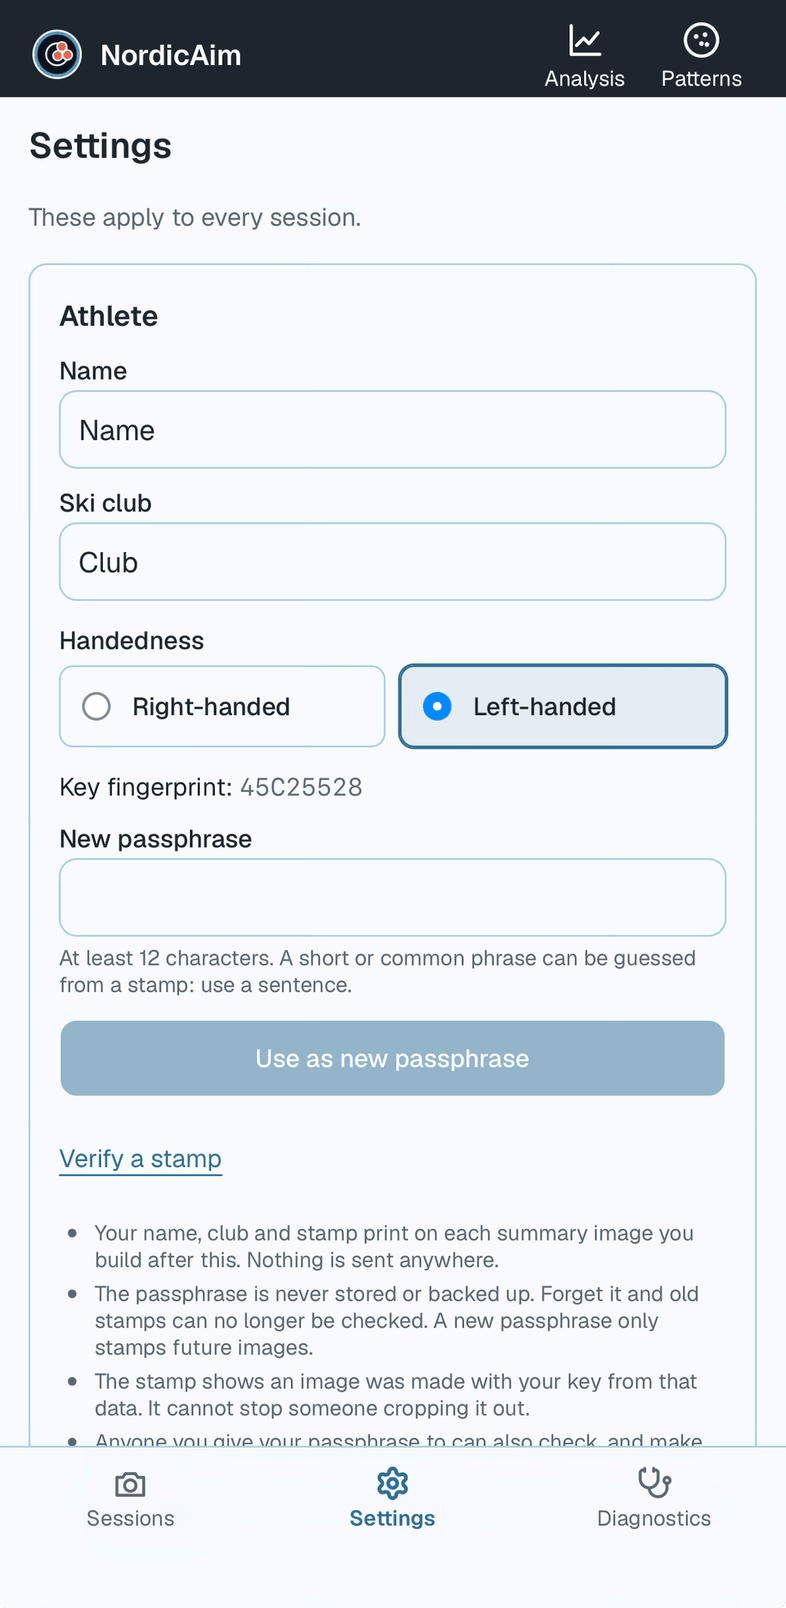
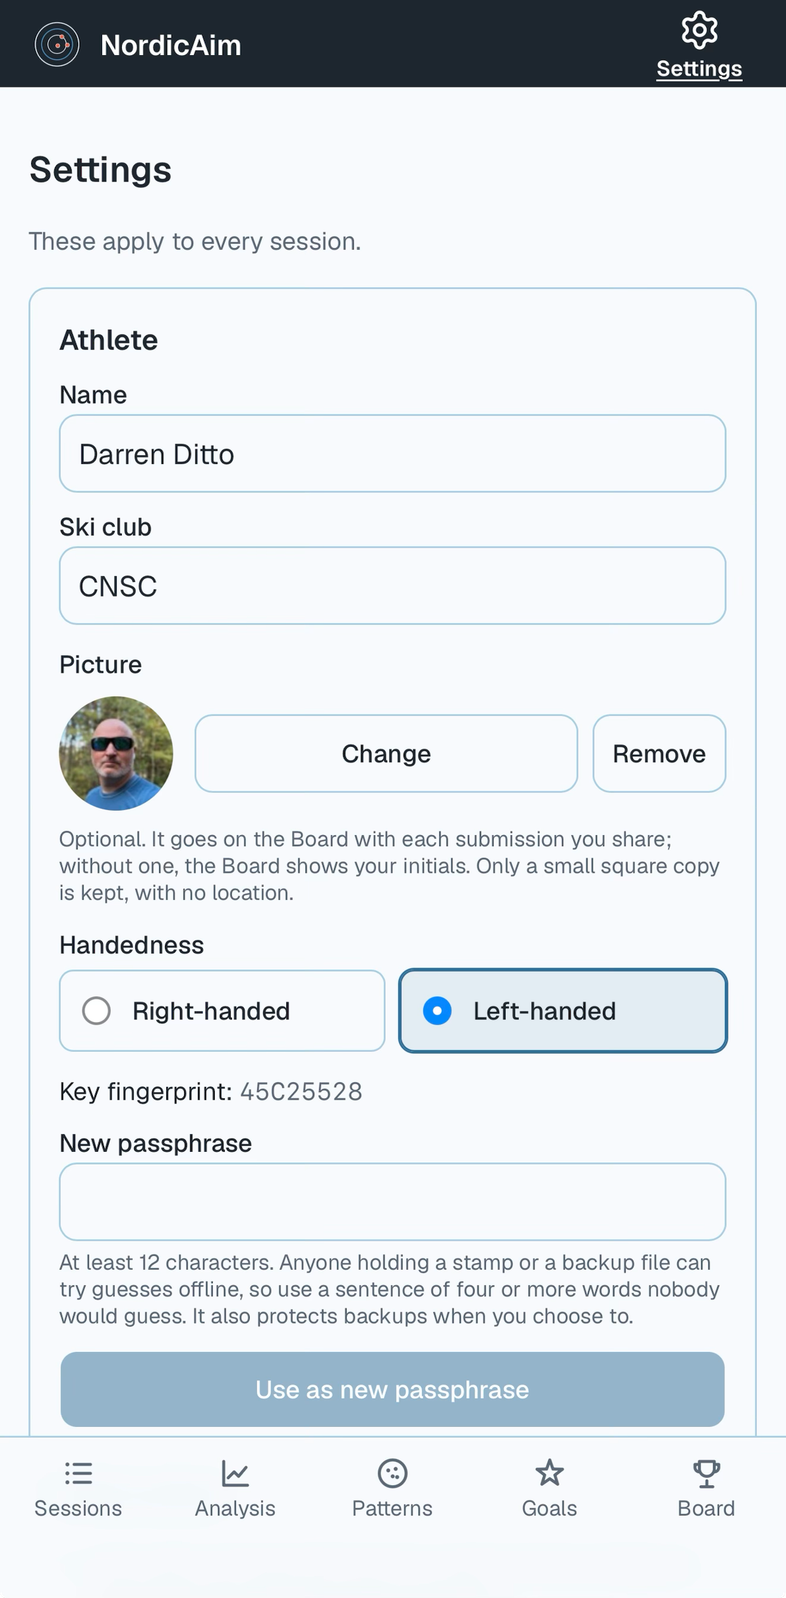
Docs: Settings screenshot from the owner's iPhone, with the athlete picture (owner's choice to show it)
Claude-Session: https://claude.ai/code/session_011nJupxVuQvQUQUo39E3m88

diff --git a/docs/guide/README.md b/docs/guide/README.md
@@ -269,7 +269,7 @@ Everything here applies to **every session**.
 **Athlete.** Your **name** and **ski club** print on the summary and coach images. Your **picture** is optional: tap **Add picture** to take one or choose one from Photos. NordicAim keeps only a small square copy of its centre, with no location, and shows it beside your name on the Board. **Remove** takes it off; without a picture the Board shows your initials. Set your **handedness** so NordicAim describes a group as towards your trigger or sling side. A **passphrase** (at least 12 characters) creates a stamp on each image, so anyone can check with **Verify a stamp** that it came from you and was not edited. The passphrase is never stored and never backed up, so keep a note of it.
 
 <p align="center">
-  <img src="../assets/screens/settings.png" width="300" alt="The Settings screen's Athlete section: name, ski club, handedness, key fingerprint and passphrase">
+  <img src="../assets/screens/settings.png" width="300" alt="The Settings screen's Athlete section: name, ski club, the athlete picture with Change and Remove, handedness, key fingerprint and passphrase">
 </p>
 
 **Scoring.** Choose how a shot is scored:

diff --git a/docs/guide/workflow.md b/docs/guide/workflow.md
@@ -34,7 +34,7 @@ Open **Settings**, the gear at the top right. Under **Athlete**, fill in:
 - **Passphrase**, at least 12 characters. It creates the stamp that lets anyone check a summary image really came from you and was not edited, the key fingerprint in your backup file names, and the signature on your Board submission. The passphrase itself is never stored and never leaves the phone, so keep a note of it somewhere safe.
 
 <p align="center">
-  <img src="../assets/screens/settings.png" width="300" alt="The Settings screen with the Athlete section: name, ski club, handedness and passphrase">
+  <img src="../assets/screens/settings.png" width="300" alt="The Settings screen with the Athlete section: name, ski club, the athlete picture with Change and Remove, handedness and passphrase">
 </p>
 
 While you are in Settings, check the **scoring rule** and, if you use one, set up your **backing sheet** (see the next step).
